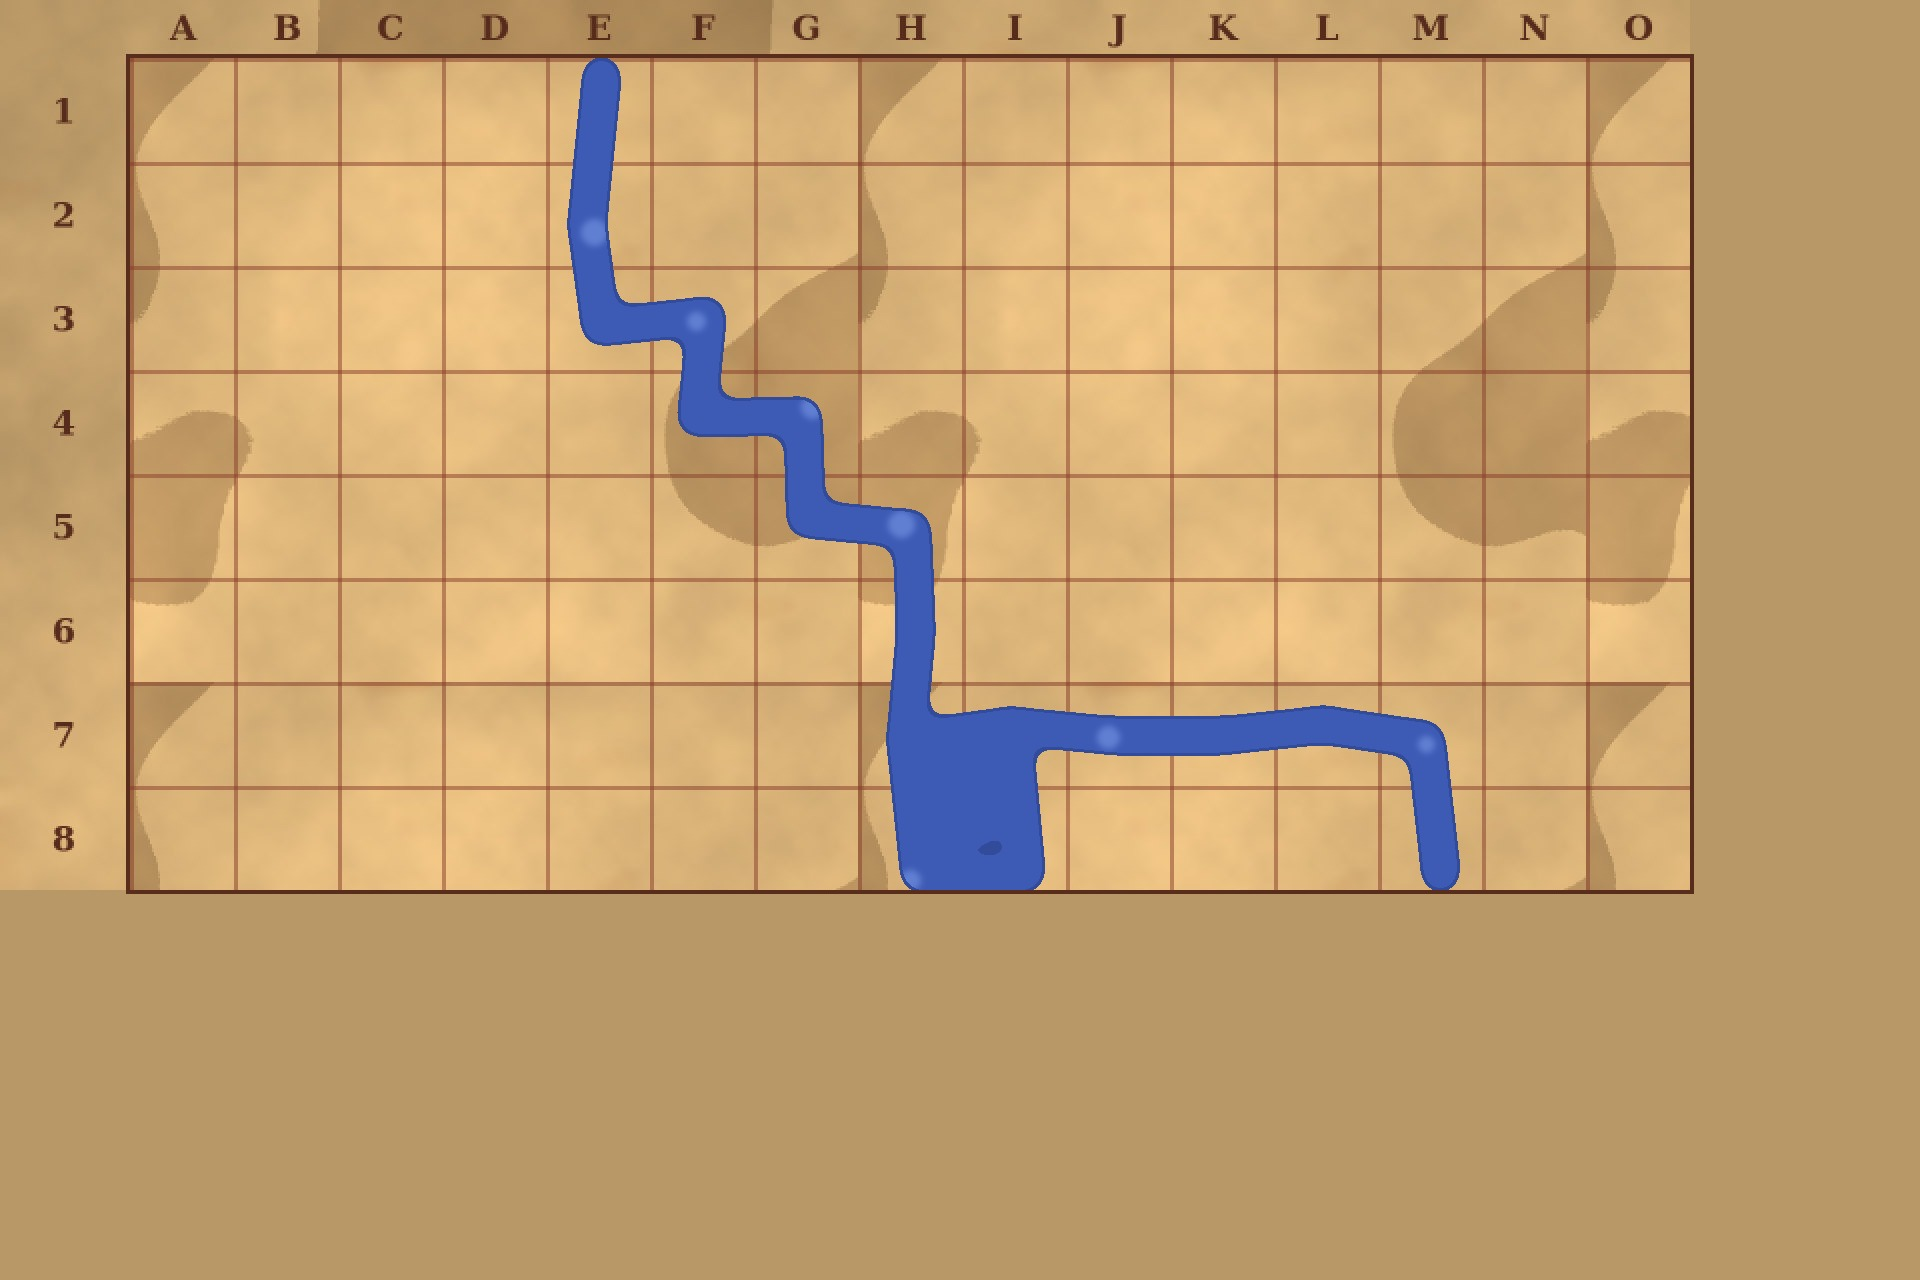
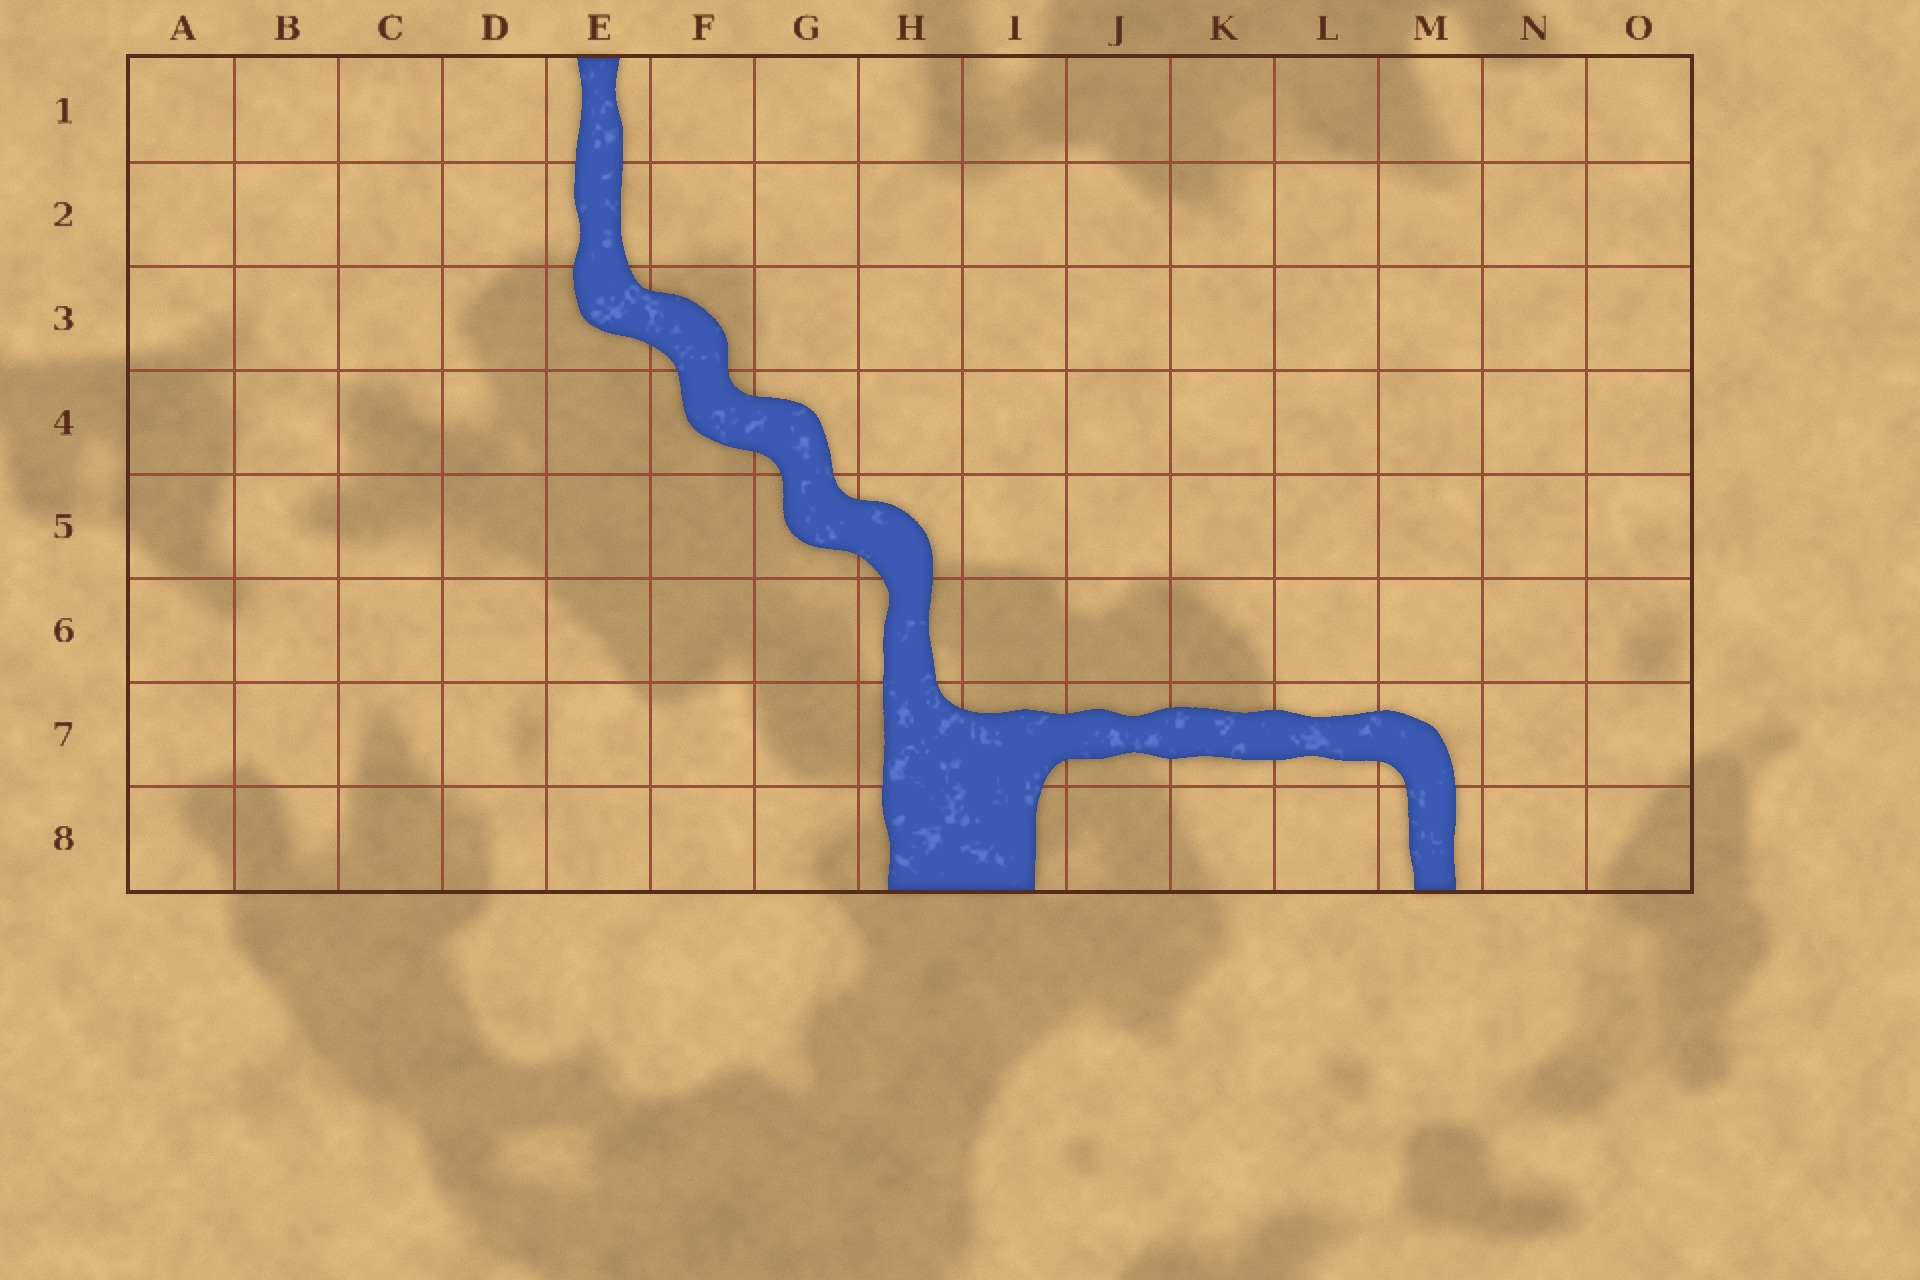
LBR: smoother generated map backgrounds
One continuous noise parchment instead of tiled land, grid redrawn under
the river, wider rounded river reaching the board edge, round ponds and
shaded water with ripples.

diff --git a/LBR/tools/make_map_backgrounds.py b/LBR/tools/make_map_backgrounds.py
@@ -12,10 +12,10 @@ Usage (needs Pillow):
     python3 LBR/tools/make_map_backgrounds.py
 """
 import json
-import math
 import subprocess
 from pathlib import Path
 
+import numpy as np
 from PIL import Image, ImageChops, ImageDraw, ImageFilter
 
 ROOT = Path(__file__).resolve().parents[2]
@@ -32,17 +32,15 @@ LAND_ROW = 1
 LAND_COLS = 7
 LAND_ROWS = 6
 
-BACKGROUND = (184, 152, 103)
 BORDER = (88, 45, 28)
 WATER = (61, 91, 181)
 WATER_EDGE = (50, 76, 155)
 WATER_LIGHT = (96, 127, 210)
+GRID = (150, 82, 56)
 # The rulebook river is a wavy band about half a cell wide, not a filled cell.
-WATER_WIDTH = 34
-RIVER_EDGE = 6
-POND_RADIUS = 60
-RIVER_BLUR = 9
-RIVER_LEVEL = 128
+WATER_WIDTH = 48
+POND_RADIUS = 78
+RIVER_BLUR = 24
 
 
 def map_defs():
@@ -55,29 +53,36 @@ def map_defs():
     return json.loads(out)
 
 
-def cell_center(row, col, board_w, board_h):
-    """The cell centre, nudged by a smooth field so straight runs meander.
-
-    A cell on the board edge moves to the border, so the river leaves the board
-    the way the rulebook art does instead of stopping short of it.
-    """
-    x = GRID_X + col * CELL + CELL // 2
-    y = GRID_Y + row * CELL + CELL // 2
-    x += math.sin(y * 0.017 + row * 0.9) * 8 + math.cos(x * 0.011 - col * 0.7) * 5
-    y += math.cos(x * 0.015 + col * 0.8) * 8 + math.sin(y * 0.013 - row * 0.6) * 5
-    if row == 0:
-        y = GRID_Y + WATER_WIDTH / 2
-    elif row == board_h - 1:
-        y = GRID_Y + board_h * CELL - WATER_WIDTH / 2
-    if col == 0:
-        x = GRID_X + WATER_WIDTH / 2
-    elif col == board_w - 1:
-        x = GRID_X + board_w * CELL - WATER_WIDTH / 2
-    return x, y
+def noise(size, scale, seed):
+    """Smooth value noise in 0..1: a coarse random grid upscaled bicubically."""
+    rng = np.random.default_rng(seed)
+    w, h = size
+    coarse = rng.random((h // scale + 3, w // scale + 3)).astype(np.float32)
+    img = Image.fromarray((coarse * 255).astype(np.uint8)).resize(
+        ((w // scale + 3) * scale, (h // scale + 3) * scale), Image.BICUBIC
+    )
+    return np.asarray(img.crop((scale, scale, scale + w, scale + h)), dtype=np.float32) / 255
 
 
-def river_mask(defn, width):
-    """The river as a soft, wavy band of `width` pixels."""
+def parchment(base, size, seed):
+    """One continuous parchment: mottled tan with a few soft darker stains."""
+    land = np.asarray(base.crop((GRID_X + LAND_COL * CELL, GRID_Y + LAND_ROW * CELL,
+                                 GRID_X + (LAND_COL + 2) * CELL, GRID_Y + (LAND_ROW + 1) * CELL)), dtype=np.float32)
+    tone = np.median(land.reshape(-1, 3), axis=0)
+    mottle = noise(size, 40, seed) * 0.6 + noise(size, 12, seed + 1) * 0.4
+    shade = 1 + (mottle - 0.5) * 0.12
+    stain = noise(size, 260, seed + 2) * 0.7 + noise(size, 70, seed + 3) * 0.3
+    stain = np.clip((stain - 0.6) * 12, 0, 1)
+    stain = np.asarray(Image.fromarray((stain * 255).astype(np.uint8)).filter(ImageFilter.GaussianBlur(5)),
+                       dtype=np.float32) / 255
+    shade = shade * (1 - stain * 0.16)
+    grain = np.random.default_rng(seed + 4).normal(0, 2.5, (size[1], size[0], 1))
+    rgb = tone[None, None, :] * shade[..., None] + grain
+    return Image.fromarray(np.clip(rgb, 0, 255).astype(np.uint8))
+
+
+def river_mask(defn, seed):
+    """The river as one soft band with ragged banks, clipped at the board edge."""
     rows = defn["rows"]
     board_w, board_h = defn["width"], defn["height"]
     mask = Image.new("L", (1920, 1280), 0)
@@ -86,83 +91,85 @@ def river_mask(defn, width):
     def is_water(row, col):
         return 0 <= row < board_h and 0 <= col < board_w and rows[row][col] == "x"
 
+    def centre(row, col):
+        # Edge cells reach past the border so the river leaves the board.
+        x = GRID_X + col * CELL + CELL / 2
+        y = GRID_Y + row * CELL + CELL / 2
+        if col == 0: x -= CELL
+        if col == board_w - 1: x += CELL
+        if row == 0: y -= CELL
+        if row == board_h - 1: y += CELL
+        return x, y
+
     for row in range(board_h):
         for col in range(board_w):
             if not is_water(row, col):
                 continue
-            cx, cy = cell_center(row, col, board_w, board_h)
-            draw.ellipse([cx - width / 2, cy - width / 2, cx + width / 2, cy + width / 2], fill=255)
+            cx, cy = centre(row, col)
+            r = WATER_WIDTH / 2
+            draw.ellipse([cx - r, cy - r, cx + r, cy + r], fill=255)
             for dr, dc in ((1, 0), (0, 1)):
                 if is_water(row + dr, col + dc):
-                    x2, y2 = cell_center(row + dr, col + dc, board_w, board_h)
-                    draw.line([cx, cy, x2, y2], fill=255, width=width)
+                    draw.line([cx, cy, *centre(row + dr, col + dc)], fill=255, width=WATER_WIDTH)
 
-    # A 2x2 water block is the pond: fill its middle instead of leaving a hole.
-    pond_radius = POND_RADIUS + (width - WATER_WIDTH) // 2
+    # A 2x2 water block is a pond: a round lake, not a square.
     for row in range(board_h - 1):
         for col in range(board_w - 1):
             if all(is_water(row + dr, col + dc) for dr in (0, 1) for dc in (0, 1)):
                 x = GRID_X + col * CELL + CELL
                 y = GRID_Y + row * CELL + CELL
-                draw.ellipse([x - pond_radius, y - pond_radius, x + pond_radius, y + pond_radius], fill=255)
+                draw.ellipse([x - POND_RADIUS, y - POND_RADIUS * 0.8, x + POND_RADIUS, y + POND_RADIUS * 0.8], fill=255)
+                draw.polygon([centre(row, col), centre(row, col + 1), centre(row + 1, col + 1), centre(row + 1, col)], fill=255)
 
-    # Round the polyline corners into the rulebook's organic bends, then clip
-    # flat at the border so the river does not spill into the labels.
-    mask = mask.filter(ImageFilter.GaussianBlur(RIVER_BLUR))
-    mask = mask.point(lambda value: 255 if value > RIVER_LEVEL else 0)
-    clip = Image.new("L", mask.size, 0)
-    ImageDraw.Draw(clip).rectangle(
-        [GRID_X, GRID_Y, GRID_X + board_w * CELL - 1, GRID_Y + board_h * CELL - 1], fill=255
-    )
-    return ImageChops.multiply(mask, clip)
-
-
-def highlight_mask(defn, water):
-    """The lighter blue patches inside the river."""
-    rows = defn["rows"]
-    board_w, board_h = defn["width"], defn["height"]
-    mask = Image.new("L", (1920, 1280), 0)
-    draw = ImageDraw.Draw(mask)
-    for row in range(board_h):
-        for col in range(board_w):
-            if rows[row][col] != "x" or (row * 7 + col * 11) % 3:
-                continue
-            cx, cy = cell_center(row, col, board_w, board_h)
-            ox = math.sin(row * 2.1 + col * 1.3) * 10
-            oy = math.cos(row * 1.7 + col * 2.9) * 10
-            radius = 8 + (row * 5 + col * 3) % 6
-            draw.ellipse([cx + ox - radius, cy + oy - radius, cx + ox + radius, cy + oy + radius], fill=255)
-    return ImageChops.multiply(mask.filter(ImageFilter.GaussianBlur(3)), water)
+    # Blur rounds the bends; thresholding against noise makes the banks ragged.
+    soft = np.asarray(mask.filter(ImageFilter.GaussianBlur(RIVER_BLUR)), dtype=np.float32) / 255
+    level = 0.5 + (noise(mask.size, 36, seed + 5) - 0.5) * 0.14
+    water = (soft > level).astype(np.uint8) * 255
+    x0, y0 = GRID_X, GRID_Y
+    clip = np.zeros_like(water)
+    clip[y0:y0 + board_h * CELL, x0:x0 + board_w * CELL] = 1
+    return Image.fromarray(water * clip)
 
 
-def make_background(base, defn):
+def paint_river(out, water, seed):
+    """Deep blue at the banks, lighter mid-stream, with ripple highlights."""
+    w = np.asarray(water, dtype=np.float32) / 255
+    depth = np.asarray(water.filter(ImageFilter.GaussianBlur(6)), dtype=np.float32) / 255
+    depth = np.clip((depth - 0.5) * 2, 0, 1)
+    ripple = noise(water.size, 14, seed + 6) * 0.6 + noise(water.size, 5, seed + 7) * 0.4
+    edge, mid, light = (np.array(c, dtype=np.float32) for c in (WATER_EDGE, WATER, WATER_LIGHT))
+    color = edge + (mid - edge) * depth[..., None]
+    sparkle = np.clip((ripple - 0.66) * 5, 0, 1) * depth
+    color = color + (light - color) * sparkle[..., None] * 0.8
+    land = np.asarray(out, dtype=np.float32)
+    # A damp darker rim on the land just outside the water.
+    halo = np.asarray(water.filter(ImageFilter.GaussianBlur(5)), dtype=np.float32) / 255
+    land = land * (1 - halo[..., None] * (1 - w[..., None]) * 0.35)
+    rgb = land * (1 - w[..., None]) + color * w[..., None]
+    return Image.fromarray(np.clip(rgb, 0, 255).astype(np.uint8))
+
+
+def make_background(base, defn, seed):
     width, height = defn["width"], defn["height"]
-    land = base.crop(
-        (
-            GRID_X + LAND_COL * CELL,
-            GRID_Y + LAND_ROW * CELL,
-            GRID_X + (LAND_COL + LAND_COLS) * CELL,
-            GRID_Y + (LAND_ROW + LAND_ROWS) * CELL,
-        )
-    )
+    out = parchment(base, base.size, seed)
 
-    out = base.copy()
-    for row in range(height):
-        for col in range(width):
-            sx = (col % LAND_COLS) * CELL
-            sy = (row % LAND_ROWS) * CELL
-            out.paste(land.crop((sx, sy, sx + CELL, sy + CELL)), (GRID_X + col * CELL, GRID_Y + row * CELL))
+    # Keep the rulebook's label ink for the columns and rows this board uses.
+    ink = base.convert("L").point(lambda v: 255 if v < 110 else 0).filter(ImageFilter.GaussianBlur(0.8))
+    keep = Image.new("L", base.size, 0)
+    kd = ImageDraw.Draw(keep)
+    kd.rectangle([GRID_X, 0, GRID_X + width * CELL, GRID_Y - 8], fill=255)
+    kd.rectangle([0, GRID_Y, GRID_X - 8, GRID_Y + height * CELL], fill=255)
+    out.paste(base, (0, 0), ImageChops.multiply(ink, keep))
 
     draw = ImageDraw.Draw(out)
-    # Erase the rulebook labels and grid past the smaller board.
-    draw.rectangle([GRID_X + width * CELL, 0, out.width, out.height], fill=BACKGROUND)
-    draw.rectangle([0, GRID_Y + height * CELL, GRID_X + width * CELL, out.height], fill=BACKGROUND)
-
-    water = river_mask(defn, WATER_WIDTH)
-    edge = river_mask(defn, WATER_WIDTH + RIVER_EDGE)
-    out.paste(Image.new("RGB", out.size, WATER_EDGE), (0, 0), edge)
-    out.paste(Image.new("RGB", out.size, WATER), (0, 0), water)
-    out.paste(Image.new("RGB", out.size, WATER_LIGHT), (0, 0), highlight_mask(defn, water))
+    for col in range(1, width):
+        x = GRID_X + col * CELL
+        draw.line([x, GRID_Y, x, GRID_Y + height * CELL], fill=GRID, width=3)
+    for row in range(1, height):
+        y = GRID_Y + row * CELL
+        draw.line([GRID_X, y, GRID_X + width * CELL, y], fill=GRID, width=3)
+    out = paint_river(out, river_mask(defn, seed), seed)
+    draw = ImageDraw.Draw(out)
 
     draw.rectangle(
         [GRID_X - 4, GRID_Y - 4, GRID_X + width * CELL + 3, GRID_Y + height * CELL + 3],
@@ -177,7 +184,7 @@ def main():
     for name, defn in map_defs().items():
         if name == "default":
             continue
-        out = make_background(base, defn)
+        out = make_background(base, defn, sum(map(ord, name)))
         path = IMAGES / f"map-{name}.jpg"
         out.save(path, quality=92)
         print(path)
